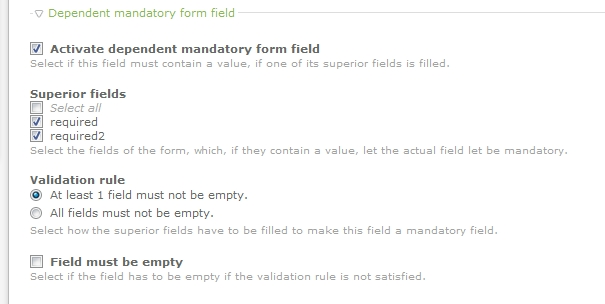
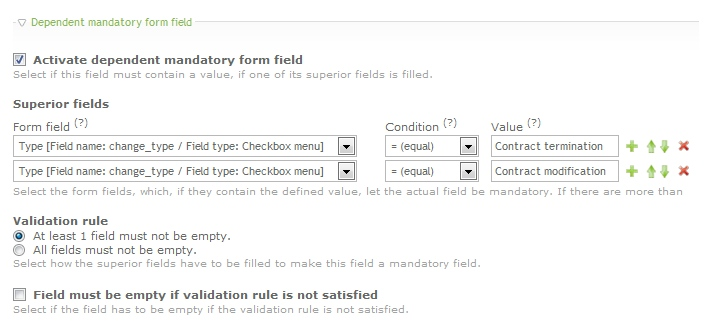
Closes #4

Changed region(s): [[0.0, 0.0, 1.0, 1.0]]

diff --git a/system/modules/zDependentMandatoryFormField/DependentMandatoryFormField.php b/system/modules/zDependentMandatoryFormField/DependentMandatoryFormField.php
@@ -64,42 +64,100 @@ class DependentMandatoryFormField extends Backend {
 	public function validateDependentMandatoryFormField(Widget $objWidget, $strFormId, $arrData) {
 		if ($objWidget->dependentMandatoryActive) {
 			$arrDependentMandatorySuperiorFields = deserialize($objWidget->dependentMandatorySuperiorFields);
+			
+			// collect all conditions for each field
+			$arrSuperiorFields = array();
+			foreach ($arrDependentMandatorySuperiorFields as $field) {
+				$fieldName = $field['superiorFieldName'];
+				if (!array_key_exists($fieldName, $arrSuperiorFields)){
+					$arrSuperiorFields[$fieldName] = array();
+				}
+				$arrSuperiorFields[$fieldName][] = array('condition' => $field['superiorFieldCondition'], 'value' => $field['superiorFieldValue']);
+			}
+			
 			$method = strtolower($this->getFormMethod($arrData['id']));
 
 			$formFields = $this->getFormFields($arrData['id']);
-			$filledSuperiorFieldsString = '';
-			$allSuperiorFieldsString = '';
+			$filledSuperiorFields = array();
+			$allSuperiorFields = array();
 			$filledSuperiorFieldsCount = 0;
-			foreach ($arrDependentMandatorySuperiorFields as $field) {
-				$value = $this->Input->$method($field);
-				if ($value == null && $this->isFormFileUpload($field, $arrData['id'])) {
-					$value = $_SESSION['FILES'][$field]['name'];
-				}
-				if ($value != null) {
-					if ($filledSuperiorFieldsCount > 0) {
-						$filledSuperiorFieldsString .= ', ';
+			foreach ($arrSuperiorFields as $field => $rules) {
+				$values = array();
+				
+				$postValue = $this->Input->$method($field);
+				if ($postValue == null && $this->isFormFileUpload($field, $arrData['id'])) {
+					$values[] = $_SESSION['FILES'][$field]['name'];
+				} else {
+					if (is_array($postValue)) {
+						$values = $postValue;
+					} else {
+						$values[] = $postValue;
 					}
-					$filledSuperiorFieldsString .= $formFields[$field];
+				}
+				
+				// check against rules
+				$blnMatched = false;
+				
+				foreach ($values as $value) {
+					foreach ($rules as $rule) {
+						if (!$blnMatched) {
+							// compare the entered value with the expected value
+							$expectedValue = $rule['value'];
+							$condition = $rule['condition'];
+							
+							if ($expectedValue == '*') {
+								if (($condition == 'eq' || $condition == 'lk') && $value != null && strlen($value) > 0) {
+									$blnMatched = true;
+								} else if ($condition == 'ne' && $value == null && strlen($value) == 0) {
+									$blnMatched = true;
+								}
+							} else {
+								//convert $value / $expectedValue into numbers if possible
+								if (is_int($value) && is_int($expectedValue)) {
+									$value = intval($value);
+									$expectedValue = intval($expectedValue);
+								} else if (is_float ($value) && is_float ($expectedValue)) {
+									$value = floatval($value);
+									$expectedValue = floatval($expectedValue);
+								}
+								
+								switch ($condition) {
+									case 'eq' : $blnMatched = ($value ==  $expectedValue); break;
+									case 'ne' : $blnMatched = ($value !=  $expectedValue); break;
+									case 'lt' : $blnMatched = ($value <  $expectedValue); break;
+									case 'le' : $blnMatched = ($value <=  $expectedValue); break;
+									case 'gt' : $blnMatched = ($value >  $expectedValue); break;
+									case 'ge' : $blnMatched = ($value >=  $expectedValue); break;
+									case 'lk' : $blnMatched = (strpos($value, $expectedValue) !== FALSE); break;
+								}
+							}
+						}
+					}
+				}
+				if ($blnMatched) {
+					$filledSuperiorFields[] = $formFields[$field];
 					$filledSuperiorFieldsCount++;
 				}
 				
-				if (strlen($allSuperiorFieldsString)) {
-					$allSuperiorFieldsString .= ', ';
-				}
-				$allSuperiorFieldsString .= $formFields[$field];
+				$allSuperiorFields[] = $formFields[$field];
 			}
 			
-			if ($filledSuperiorFieldsCount > 0 && $this->Input->$method($objWidget->name) == null) {
-				if (($objWidget->dependentMandatoryValidationRule == self::$RULE_ALL && count($arrDependentMandatorySuperiorFields) == $filledSuperiorFieldsCount) ||
+			$widgetValue = $this->Input->$method($objWidget->name);
+			if ($widgetValue == null && $this->isFormFileUpload($objWidget->name, $arrData['id'])) {
+					$widgetValue = $_SESSION['FILES'][$objWidget->name]['name'];
+			}
+			
+			if ($filledSuperiorFieldsCount > 0 && $widgetValue == null) {
+				if (($objWidget->dependentMandatoryValidationRule == self::$RULE_ALL && count($arrSuperiorFields) == $filledSuperiorFieldsCount) ||
 					($objWidget->dependentMandatoryValidationRule == self::$RULE_ONE)) {
 					
-					$objWidget->addError($this->getErrorMessage('dependentMandatoryErrorMandatory', $objWidget, $filledSuperiorFieldsCount, $filledSuperiorFieldsString));
+					$objWidget->addError($this->getErrorMessage('dependentMandatoryErrorMandatory', $objWidget, $filledSuperiorFieldsCount, $filledSuperiorFields));
 				}
-			} else if ($objWidget->dependentMandatoryEmpty && $this->Input->$method($objWidget->name) != null) {
-				if (($objWidget->dependentMandatoryValidationRule == self::$RULE_ALL && count($arrDependentMandatorySuperiorFields) != $filledSuperiorFieldsCount) ||
+			} else if ($objWidget->dependentMandatoryEmpty && $widgetValue != null) {
+				if (($objWidget->dependentMandatoryValidationRule == self::$RULE_ALL && count($arrSuperiorFields) != $filledSuperiorFieldsCount) ||
 					($objWidget->dependentMandatoryValidationRule == self::$RULE_ONE && $filledSuperiorFieldsCount == 0)) {
 					
-					$objWidget->addError($this->getErrorMessage('dependentMandatoryErrorEmpty', $objWidget, count($arrDependentMandatorySuperiorFields), $allSuperiorFieldsString));
+					$objWidget->addError($this->getErrorMessage('dependentMandatoryErrorEmpty', $objWidget, count($arrSuperiorFields), $allSuperiorFields));
 				}
 			}
 		}
@@ -137,13 +195,13 @@ class DependentMandatoryFormField extends Backend {
 	/**
 	 * Creates a special error message for each case.
 	 */
-	private function getErrorMessage ($msgKey, $objWidget, $superiorFieldsCount, $filledSuperiorFieldsString) {
+	private function getErrorMessage ($msgKey, $objWidget, $superiorFieldsCount, $filledSuperiorFields) {
 		if ($superiorFieldsCount > 0) {
 			$singularPluralErrorKey = 'Single';
 			if ($superiorFieldsCount > 1) {
 				$singularPluralErrorKey = 'Multiple';
 			}
-			return sprintf($GLOBALS['TL_LANG']['ERR'][$msgKey][$singularPluralErrorKey], $objWidget->label, $filledSuperiorFieldsString);
+			return sprintf($GLOBALS['TL_LANG']['ERR'][$msgKey][$singularPluralErrorKey], $objWidget->label, implode(', ', $filledSuperiorFields));
 		}
 		
 		return '';
@@ -153,15 +211,20 @@ class DependentMandatoryFormField extends Backend {
 	 * Return all possible form fields as array ... to configure superior fields in dca
 	 * @return array
 	 */
-	public function getAllInputFormFields(DataContainer $dc) {
+	public function getAllInputFormFields(MultiColumnWizard $mcw) {
 		$this->loadLanguageFile('tl_form_field');
 		
 		$fields = array();
 		
-		$intPid = $dc->activeRecord->pid;
+		$intPid = -1;
 
-		if ($this->Input->get('act') == 'overrideAll') {
+		if ($this->Input->get('act') == 'overrideAll' || $this->Input->get('act') == 'editAll') {
 			$intPid = $this->Input->get('id');
+		} else {
+			$intPid = $this->Database->prepare("SELECT pid FROM tl_form_field WHERE id = ?")
+									  ->limit(1)
+									  ->execute($this->Input->get('id'))
+									  ->pid;
 		}
 
 		// Get all form fields which can be used

diff --git a/system/modules/zDependentMandatoryFormField/languages/de/tl_form_field.php b/system/modules/zDependentMandatoryFormField/languages/de/tl_form_field.php
@@ -29,9 +29,14 @@
 
 // fields
 $GLOBALS['TL_LANG']['tl_form_field']['dependentMandatoryActive']         = array('Abhängiges Pflichtfeld aktivieren', 'Wählen Sie, ob das Feld zum Abschicken des Formulars ausgefüllt sein muss, wenn ein übergeordnetes Feld einen Wert enthält.');
-$GLOBALS['TL_LANG']['tl_form_field']['dependentMandatorySuperiorFields'] = array('Übergeordnete Felder', 'Wählen Sie die Felder des Formulars aus, die, wenn sie einen Wert enthalten, das aktuelle Feld zum Pflichtfeld machen.');
+$GLOBALS['TL_LANG']['tl_form_field']['dependentMandatorySuperiorFields'] = array('Übergeordnete Felder', 'Wählen Sie die Formularfelder aus, die, wenn sie den definierten Wert enthalten, das aktuelle Feld zum Pflichtfeld machen. Wenn für ein übergeordnetes Feld mehrere Bedingungen angegeben sind, wird geprüft, ob mindestens eine davon zutrifft (OR Verknüpfung).');
 $GLOBALS['TL_LANG']['tl_form_field']['dependentMandatoryValidationRule'] = array('Validierungsregel', 'Wählen Sie wie die übergeordneten Felder befüllt sein müssen, um dieses Feld zum Pflichtfeld zu machen.');
-$GLOBALS['TL_LANG']['tl_form_field']['dependentMandatoryEmpty']          = array('Feld muss leer sein', 'Wählen Sie ob das Feld leer sein muss, wenn die Validierungsregel nicht erfüllt ist.');
+$GLOBALS['TL_LANG']['tl_form_field']['dependentMandatoryEmpty']          = array('Feld muss leer sein wenn Validierungsregel nicht erfüllt', 'Wählen Sie ob das Feld leer sein muss, wenn die Validierungsregel nicht erfüllt ist.');
+
+// mcw fields
+$GLOBALS['TL_LANG']['tl_form_field']['dependentMandatorySuperiorFieldName']      = array('Formularfeld', 'Wählen Sie das Formularfeld aus.');
+$GLOBALS['TL_LANG']['tl_form_field']['dependentMandatorySuperiorFieldCondition'] = array('Bedingung', 'Wählen Sie die Bedingung für die Feldvalidierung.');
+$GLOBALS['TL_LANG']['tl_form_field']['dependentMandatorySuperiorFieldValue']     = array('Wert', 'Legen Sie den Wert fest, der bei der Validierung überprüft werden soll. Als Platzhalter für einen beliebigen Feldwert kann \'*\' (Stern) verwendet werden.');
 
 // legends
 $GLOBALS['TL_LANG']['tl_form_field']['dependentMandatory_legend'] = "Abhängiges Pflichtfeld";
@@ -39,5 +44,14 @@ $GLOBALS['TL_LANG']['tl_form_field']['dependentMandatory_legend'] = "Abhängiges
 // fields
 $GLOBALS['TL_LANG']['tl_form_field']['dependentMandatoryValidationRuleOptions']['0'] = 'Mindestens 1 Feld muss befüllt sein.';
 $GLOBALS['TL_LANG']['tl_form_field']['dependentMandatoryValidationRuleOptions']['1'] = 'Alle Felder müssen befüllt sein.';
+
+// options
+$GLOBALS['TL_LANG']['tl_form_field']['dependentMandatorySuperiorFieldOptions']['eq'] = '= (gleich)';
+$GLOBALS['TL_LANG']['tl_form_field']['dependentMandatorySuperiorFieldOptions']['ne'] = '!= (ungleich)';
+$GLOBALS['TL_LANG']['tl_form_field']['dependentMandatorySuperiorFieldOptions']['lt'] = '< (kleiner)';
+$GLOBALS['TL_LANG']['tl_form_field']['dependentMandatorySuperiorFieldOptions']['le'] = '<= (kleiner oder gleich)';
+$GLOBALS['TL_LANG']['tl_form_field']['dependentMandatorySuperiorFieldOptions']['gt'] = '> (größer)';
+$GLOBALS['TL_LANG']['tl_form_field']['dependentMandatorySuperiorFieldOptions']['ge'] = '>= (größer oder gleich)';
+$GLOBALS['TL_LANG']['tl_form_field']['dependentMandatorySuperiorFieldOptions']['lk'] = 'LIKE (ähnlich)';
  
 ?>

diff --git a/system/modules/zDependentMandatoryFormField/languages/en/tl_form_field.php b/system/modules/zDependentMandatoryFormField/languages/en/tl_form_field.php
@@ -29,9 +29,14 @@
 
 // fields
 $GLOBALS['TL_LANG']['tl_form_field']['dependentMandatoryActive']         = array('Activate dependent mandatory form field', 'Select if this field must contain a value, if one of its superior fields is filled.');
-$GLOBALS['TL_LANG']['tl_form_field']['dependentMandatorySuperiorFields'] = array('Superior fields', 'Select the fields of the form, which, if they contain a value, let the actual field let be mandatory.');
+$GLOBALS['TL_LANG']['tl_form_field']['dependentMandatorySuperiorFields'] = array('Superior fields', 'Select the form fields, which, if they contain the defined value, let the actual field be mandatory. If there are more than one condifitons for a superior field, at least one has to be true (OR combination).');
 $GLOBALS['TL_LANG']['tl_form_field']['dependentMandatoryValidationRule'] = array('Validation rule', 'Select how the superior fields have to be filled to make this field a mandatory field.');
-$GLOBALS['TL_LANG']['tl_form_field']['dependentMandatoryEmpty']          = array('Field must be empty', 'Select if the field has to be empty if the validation rule is not satisfied.');
+$GLOBALS['TL_LANG']['tl_form_field']['dependentMandatoryEmpty']          = array('Field must be empty if validation rule is not satisfied', 'Select if the field has to be empty if the validation rule is not satisfied.');
+
+// mcw fields
+$GLOBALS['TL_LANG']['tl_form_field']['dependentMandatorySuperiorFieldName']      = array('Form field', 'Select the form field.');
+$GLOBALS['TL_LANG']['tl_form_field']['dependentMandatorySuperiorFieldCondition'] = array('Condition', 'Select the condition for field valiation.');
+$GLOBALS['TL_LANG']['tl_form_field']['dependentMandatorySuperiorFieldValue']     = array('Value', 'Specify the value to be tested during validation. As a placeholder for any field value a \'*\' (asterisk) can be used.');
 
 // legends
 $GLOBALS['TL_LANG']['tl_form_field']['dependentMandatory_legend'] = "Dependent mandatory form field";
@@ -39,5 +44,15 @@ $GLOBALS['TL_LANG']['tl_form_field']['dependentMandatory_legend'] = "Dependent m
 // fields
 $GLOBALS['TL_LANG']['tl_form_field']['dependentMandatoryValidationRuleOptions']['0'] = 'At least 1 field must not be empty.';
 $GLOBALS['TL_LANG']['tl_form_field']['dependentMandatoryValidationRuleOptions']['1'] = 'All fields must not be empty.';
+
+
+// options
+$GLOBALS['TL_LANG']['tl_form_field']['dependentMandatorySuperiorFieldOptions']['eq'] = '= (equal)';
+$GLOBALS['TL_LANG']['tl_form_field']['dependentMandatorySuperiorFieldOptions']['ne'] = '!= (not equal)';
+$GLOBALS['TL_LANG']['tl_form_field']['dependentMandatorySuperiorFieldOptions']['lt'] = '< (lower)';
+$GLOBALS['TL_LANG']['tl_form_field']['dependentMandatorySuperiorFieldOptions']['le'] = '<= (lower or equal)';
+$GLOBALS['TL_LANG']['tl_form_field']['dependentMandatorySuperiorFieldOptions']['gt'] = '> (greater)';
+$GLOBALS['TL_LANG']['tl_form_field']['dependentMandatorySuperiorFieldOptions']['ge'] = '>= (greater or equal)';
+$GLOBALS['TL_LANG']['tl_form_field']['dependentMandatorySuperiorFieldOptions']['lk'] = 'LIKE (similar to)';
 
 ?>

diff --git a/system/modules/zDependentMandatoryFormField/dca/tl_form_field.php b/system/modules/zDependentMandatoryFormField/dca/tl_form_field.php
@@ -42,9 +42,41 @@ $GLOBALS['TL_DCA']['tl_form_field']['fields']['dependentMandatorySuperiorFields'
 	'label'                   => &$GLOBALS['TL_LANG']['tl_form_field']['dependentMandatorySuperiorFields'],
 	'exclude'                 => true,
 	'filter'                  => false,
-	'inputType'               => 'checkbox',
-	'options_callback'        => array('DependentMandatoryFormField', 'getAllInputFormFields'),
-	'eval'                    => array('mandatory'=>true, 'multiple'=>true)
+	'inputType'               => 'multiColumnWizard',
+	'eval'                    => array
+	(
+			'mandatory'    => true,
+			'style'        => 'min-width: 100%;',
+			'tl_class'     =>'clr',
+			'columnFields' => array
+			(
+					'superiorFieldName' => array
+					(
+							'label'            => &$GLOBALS['TL_LANG']['tl_form_field']['dependentMandatorySuperiorFieldName'],
+							'exclude'          => true,
+							'inputType'        => 'select',
+							'options_callback' => array('DependentMandatoryFormField', 'getAllInputFormFields'),
+							'eval'             => array('mandatory'=>true, 'style'=>'width: 94%;')
+					),
+					'superiorFieldCondition' => array
+					(
+							'label'            => &$GLOBALS['TL_LANG']['tl_form_field']['dependentMandatorySuperiorFieldCondition'],
+							'exclude'          => true,
+							'inputType'        => 'select',
+							'options'          => array('eq', 'ne', 'lt', 'le', 'gt', 'ge', 'lk'),
+							'reference'        => &$GLOBALS['TL_LANG']['tl_form_field']['dependentMandatorySuperiorFieldOptions'],
+							'eval'             => array('mandatory'=>true, 'style'=>'width: 94%;')
+					),
+					'superiorFieldValue' => array
+					(
+							'label'            => &$GLOBALS['TL_LANG']['tl_form_field']['dependentMandatorySuperiorFieldValue'],
+							'exclude'          => true,
+							'inputType'        => 'text',
+							'eval'             => array('mandatory'=>true, 'style'=>'width: 95%;')
+					)
+			)
+	)
+	
 );
 
 $GLOBALS['TL_DCA']['tl_form_field']['fields']['dependentMandatoryValidationRule'] = array

diff --git a/README.md b/README.md
@@ -21,6 +21,7 @@ Screenshot
 ----------
 
 ![Screenshot](https://raw.github.com/cliffparnitzky/DependentMandatoryFormField/master/screenshot.jpg)
+![Screenshot](https://raw.github.com/cliffparnitzky/DependentMandatoryFormField/master/screenshot3.jpg)
 
 
 Compatibility
@@ -57,6 +58,6 @@ This is only an example:
 			color: #FF7777;
 	}
 	
-With the css above, a form like the follwoing will be created:
+With the css above, a form like the following will be created:
 
 ![Screenshot 2](https://raw.github.com/cliffparnitzky/DependentMandatoryFormField/master/screenshot2.jpg)
